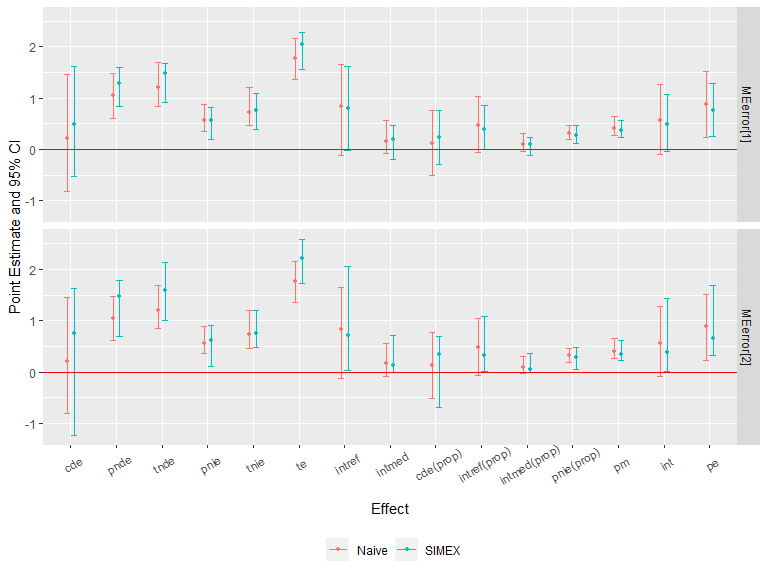
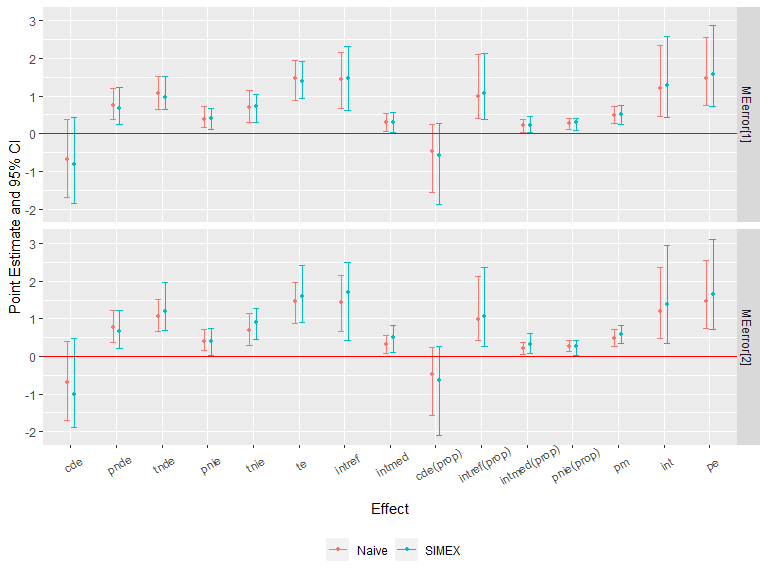
pkgdown

diff --git a/README.md b/README.md
@@ -9,8 +9,6 @@ Active](http://www.repostatus.org/badges/latest/active.svg)](http://www.repostat
 status](https://travis-ci.com/BS1125/CMAverse.svg?branch=master)](https://travis-ci.com/BS1125/CMAverse)
 [![R build
 status](https://github.com/BS1125/CMAverse/workflows/R-CMD-check/badge.svg)](https://github.com/BS1125/CMAverse/actions)
-[![Codecov test
-coverage](https://codecov.io/gh/BS1125/CMAverse/branch/master/graph/badge.svg)](https://codecov.io/gh/BS1125/CMAverse?branch=master)
 
 About the Package
 -----------------
@@ -404,27 +402,27 @@ Summarizing and plotting the results:
     ##     data = getCall(x$regsumm$yreg)$data, weights = getCall(x$regsumm$yreg)$weights)
     ## 
     ## Deviance Residuals: 
-    ##      Min        1Q    Median        3Q       Max  
-    ## -2.40326  -0.72140  -0.00023   0.57945   2.16324  
+    ##     Min       1Q   Median       3Q      Max  
+    ## -2.1479  -0.6226   0.0437   0.6214   2.1129  
     ## 
     ## Coefficients:
     ##             Estimate Std. Error t value Pr(>|t|)    
-    ## (Intercept)   0.7551     0.3521   2.145  0.03462 *  
-    ## Atreat        0.2085     0.5810   0.359  0.72058    
-    ## M1            0.5274     0.3033   1.739  0.08544 .  
-    ## M2            0.5407     0.1140   4.745 7.61e-06 ***
-    ## C1           -0.3910     0.1224  -3.194  0.00192 ** 
-    ## C2C2_1        2.0925     0.2825   7.408 6.03e-11 ***
-    ## Atreat:M1     0.7636     0.4232   1.804  0.07444 .  
-    ## Atreat:M2     0.1610     0.1259   1.279  0.20428    
+    ## (Intercept)   0.7654     0.3935   1.945  0.05478 .  
+    ## Atreat       -0.6839     0.5632  -1.214  0.22778    
+    ## M1            0.3424     0.3132   1.093  0.27720    
+    ## M2            0.5311     0.1163   4.568 1.53e-05 ***
+    ## C1           -0.2683     0.1261  -2.128  0.03602 *  
+    ## C2C2_1        1.9933     0.2855   6.981 4.45e-10 ***
+    ## Atreat:M1     0.7611     0.4307   1.767  0.08056 .  
+    ## Atreat:M2     0.3335     0.1200   2.778  0.00662 ** 
     ## ---
     ## Signif. codes:  0 '***' 0.001 '**' 0.01 '*' 0.05 '.' 0.1 ' ' 1
     ## 
-    ## (Dispersion parameter for gaussian family taken to be 0.8766664)
+    ## (Dispersion parameter for gaussian family taken to be 0.888859)
     ## 
-    ##     Null deviance: 493.158  on 99  degrees of freedom
-    ## Residual deviance:  80.653  on 92  degrees of freedom
-    ## AIC: 280.29
+    ##     Null deviance: 456.104  on 99  degrees of freedom
+    ## Residual deviance:  81.775  on 92  degrees of freedom
+    ## AIC: 281.67
     ## 
     ## Number of Fisher Scoring iterations: 2
     ## 
@@ -436,22 +434,22 @@ Summarizing and plotting the results:
     ## 
     ## Deviance Residuals: 
     ##     Min       1Q   Median       3Q      Max  
-    ## -1.8886  -0.8056  -0.4000   0.8544   2.2799  
+    ## -1.8272  -0.8024  -0.3942   0.8843   2.1428  
     ## 
     ## Coefficients:
     ##             Estimate Std. Error z value Pr(>|z|)    
-    ## (Intercept)   0.4647     0.4742   0.980   0.3272    
-    ## Atreat        0.2762     0.4831   0.572   0.5675    
-    ## C1           -1.2857     0.2909  -4.420 9.87e-06 ***
-    ## C2C2_1        0.8843     0.5019   1.762   0.0781 .  
+    ## (Intercept)   0.5153     0.5065   1.017    0.309    
+    ## Atreat        0.3399     0.4894   0.695    0.487    
+    ## C1           -1.3209     0.3064  -4.312 1.62e-05 ***
+    ## C2C2_1        0.3652     0.4846   0.754    0.451    
     ## ---
     ## Signif. codes:  0 '***' 0.001 '**' 0.01 '*' 0.05 '.' 0.1 ' ' 1
     ## 
     ## (Dispersion parameter for binomial family taken to be 1)
     ## 
-    ##     Null deviance: 138.27  on 99  degrees of freedom
-    ## Residual deviance: 108.42  on 96  degrees of freedom
-    ## AIC: 116.42
+    ##     Null deviance: 136.66  on 99  degrees of freedom
+    ## Residual deviance: 106.90  on 96  degrees of freedom
+    ## AIC: 114.9
     ## 
     ## Number of Fisher Scoring iterations: 4
     ## 
@@ -461,24 +459,24 @@ Summarizing and plotting the results:
     ##     weights = getCall(x$regsumm$mreg[[2L]])$weights)
     ## 
     ## Deviance Residuals: 
-    ##      Min        1Q    Median        3Q       Max  
-    ## -2.43403  -0.68099  -0.04434   0.76494   1.97911  
+    ##     Min       1Q   Median       3Q      Max  
+    ## -2.7913  -0.7986   0.1149   0.6585   1.9711  
     ## 
     ## Coefficients:
     ##             Estimate Std. Error t value Pr(>|t|)    
-    ## (Intercept)   1.6218     0.2503   6.479 4.08e-09 ***
-    ## Atreat        1.0407     0.2081   5.002 2.60e-06 ***
-    ## M1           -1.0921     0.2342  -4.662 1.02e-05 ***
-    ## C1            0.5369     0.1174   4.575 1.44e-05 ***
-    ## C2C2_1        2.0989     0.2111   9.941  < 2e-16 ***
+    ## (Intercept)   1.8620     0.2628   7.084 2.42e-10 ***
+    ## Atreat        0.7581     0.2201   3.445 0.000852 ***
+    ## M1           -0.8912     0.2415  -3.690 0.000374 ***
+    ## C1            0.5363     0.1251   4.288 4.34e-05 ***
+    ## C2C2_1        2.1921     0.2105  10.414  < 2e-16 ***
     ## ---
     ## Signif. codes:  0 '***' 0.001 '**' 0.01 '*' 0.05 '.' 0.1 ' ' 1
     ## 
-    ## (Dispersion parameter for gaussian family taken to be 1.009011)
+    ## (Dispersion parameter for gaussian family taken to be 1.055059)
     ## 
-    ##     Null deviance: 297.239  on 99  degrees of freedom
-    ## Residual deviance:  95.856  on 95  degrees of freedom
-    ## AIC: 291.56
+    ##     Null deviance: 291.98  on 99  degrees of freedom
+    ## Residual deviance: 100.23  on 95  degrees of freedom
+    ## AIC: 296.02
     ## 
     ## Number of Fisher Scoring iterations: 2
     ## 
@@ -488,21 +486,21 @@ Summarizing and plotting the results:
     ##  bootstrap standard errors, percentile confidence intervals and p-values 
     ##  
     ##              Estimate Std.error  95% CIL 95% CIU  P.val    
-    ## cde           0.20847   0.67110 -0.81428   1.450    0.7    
-    ## pnde          1.04534   0.28139  0.60505   1.472 <2e-16 ***
-    ## tnde          1.20701   0.27595  0.84519   1.690 <2e-16 ***
-    ## pnie          0.56334   0.15605  0.35407   0.878 <2e-16 ***
-    ## tnie          0.72502   0.22528  0.46824   1.204 <2e-16 ***
-    ## te            1.77036   0.27203  1.36197   2.153 <2e-16 ***
-    ## intref        0.83687   0.56739 -0.12084   1.655    0.1 .  
-    ## intmed        0.16167   0.18042 -0.07757   0.556    0.1 .  
-    ## cde(prop)     0.11775   0.38463 -0.51699   0.766    0.7    
-    ## intref(prop)  0.47272   0.32113 -0.06683   1.040    0.1 .  
-    ## intmed(prop)  0.09132   0.09752 -0.03780   0.302    0.1 .  
-    ## pnie(prop)    0.31821   0.08482  0.18541   0.461 <2e-16 ***
-    ## pm            0.40953   0.11737  0.27201   0.645 <2e-16 ***
-    ## int           0.56404   0.40801 -0.09191   1.270    0.1 .  
-    ## pe            0.88225   0.38463  0.23372   1.517 <2e-16 ***
+    ## cde          -0.68389   0.58266 -1.69350   0.389    0.2    
+    ## pnde          0.76252   0.27788  0.38212   1.210 <2e-16 ***
+    ## tnde          1.07100   0.25438  0.65684   1.525 <2e-16 ***
+    ## pnie          0.38694   0.17166  0.16967   0.719 <2e-16 ***
+    ## tnie          0.69542   0.24125  0.29645   1.139 <2e-16 ***
+    ## te            1.45794   0.31937  0.87301   1.959 <2e-16 ***
+    ## intref        1.44642   0.44322  0.66993   2.151 <2e-16 ***
+    ## intmed        0.30848   0.15045  0.06641   0.550 <2e-16 ***
+    ## cde(prop)    -0.46908   0.50524 -1.55909   0.245    0.2    
+    ## intref(prop)  0.99210   0.47194  0.41479   2.116 <2e-16 ***
+    ## intmed(prop)  0.21158   0.10208  0.04734   0.370 <2e-16 ***
+    ## pnie(prop)    0.26540   0.08849  0.12693   0.416 <2e-16 ***
+    ## pm            0.47699   0.13955  0.26043   0.713 <2e-16 ***
+    ## int           1.20368   0.52538  0.46917   2.354 <2e-16 ***
+    ## pe            1.46908   0.50524  0.75538   2.559 <2e-16 ***
     ## ---
     ## Signif. codes:  0 '***' 0.001 '**' 0.01 '*' 0.05 '.' 0.1 ' ' 1
     ## 
@@ -533,13 +531,13 @@ analysis for unmeasured confounding:
     ## Sensitivity Analysis For Unmeasured Confounding 
     ## 
     ## Evalues on the ratio scale: 
-    ##         estRR   lowerRR  upperRR Evalue.estRR Evalue.lowerRR Evalue.upperRR
-    ## cde  1.088713 0.6374836 1.859337     1.399492       1.000000             NA
-    ## pnde 1.531443 1.2235924 1.916746     2.433592       1.746647             NA
-    ## tnde 1.635794 1.3126569 2.038478     2.655612       1.953290             NA
-    ## pnie 1.258208 1.1109676 1.424962     1.828189       1.462082             NA
-    ## tnie 1.343941 1.1229245 1.608459     2.023821       1.494455             NA
-    ## te   2.058169 1.6567618 2.556830     3.533936       2.699881             NA
+    ##          estRR   lowerRR  upperRR Evalue.estRR Evalue.lowerRR Evalue.upperRR
+    ## cde  0.7483044 0.4615625 1.213182     2.006794             NA              1
+    ## pnde 1.3816525 1.0972832 1.739718     2.107815       1.424005             NA
+    ## tnde 1.5746957 1.2752014 1.944529     2.525995       1.867601             NA
+    ## pnie 1.1782709 1.0219259 1.358535     1.636585       1.171614             NA
+    ## tnie 1.3428978 1.0993962 1.640332     2.021482       1.429965             NA
+    ## te   1.8554182 1.4236964 2.418055     3.115243       2.200366             NA
 
 Assume that the continuous pre-exposure confounder was measured with
 error. Sensitivity analysis for measurement error using regression
@@ -561,22 +559,22 @@ Summarizing and plotting the results:
     ## Measurement error 1: 
     ## 0.1
     ## Measurement error correction for measurement error 1: 
-    ##               Estimate Std.error   95% CIL 95% CIU  P.val    
-    ## cde           0.205194  0.480840 -0.543441   0.991    0.5    
-    ## pnde          1.035260  0.199725  0.733601   1.330 <2e-16 ***
-    ## tnde          1.226583  0.232790  0.841676   1.599 <2e-16 ***
-    ## pnie          0.563154  0.154671  0.272329   0.792 <2e-16 ***
-    ## tnie          0.754477  0.248639  0.349678   1.216 <2e-16 ***
-    ## te            1.789737  0.309951  1.210990   2.242 <2e-16 ***
-    ## intref        0.830067  0.376092  0.202022   1.312 <2e-16 ***
-    ## intmed        0.191323  0.151560 -0.014945   0.468    0.1 .  
-    ## cde(prop)     0.114650  0.287690 -0.340201   0.597    0.5    
-    ## intref(prop)  0.463792  0.221562  0.121826   0.869 <2e-16 ***
-    ## intmed(prop)  0.106900  0.076537 -0.007515   0.245    0.1 .  
-    ## pnie(prop)    0.314657  0.069050  0.223366   0.449 <2e-16 ***
-    ## pm            0.421557  0.097130  0.257573   0.589 <2e-16 ***
-    ## int           0.570693  0.282061  0.121978   1.034 <2e-16 ***
-    ## pe            0.885350  0.287690  0.403499   1.340 <2e-16 ***
+    ##              Estimate Std.error  95% CIL 95% CIU  P.val    
+    ## cde          -0.68650   0.54741 -1.73302  -0.037 <2e-16 ***
+    ## pnde          0.72388   0.25439  0.14360   0.994 <2e-16 ***
+    ## tnde          0.98236   0.29098  0.44628   1.438 <2e-16 ***
+    ## pnie          0.40405   0.12422  0.14357   0.581 <2e-16 ***
+    ## tnie          0.66253   0.17716  0.33656   0.986 <2e-16 ***
+    ## te            1.38640   0.27244  0.83456   1.658 <2e-16 ***
+    ## intref        1.41038   0.51631  0.83305   2.480 <2e-16 ***
+    ## intmed        0.25848   0.15582  0.07115   0.610 <2e-16 ***
+    ## cde(prop)    -0.49517   0.51097 -1.65403  -0.029 <2e-16 ***
+    ## intref(prop)  1.01729   0.42453  0.59085   1.959 <2e-16 ***
+    ## intmed(prop)  0.18644   0.10151  0.05322   0.407 <2e-16 ***
+    ## pnie(prop)    0.29144   0.11384  0.09749   0.519 <2e-16 ***
+    ## pm            0.47787   0.15306  0.29259   0.845 <2e-16 ***
+    ## int           1.20373   0.48681  0.68541   2.244 <2e-16 ***
+    ## pe            1.49517   0.51097  1.02915   2.654 <2e-16 ***
     ## ---
     ## Signif. codes:  0 '***' 0.001 '**' 0.01 '*' 0.05 '.' 0.1 ' ' 1
     ## ----------------------------------------------------------------
@@ -585,21 +583,21 @@ Summarizing and plotting the results:
     ## 0.2
     ## Measurement error correction for measurement error 2: 
     ##              Estimate Std.error  95% CIL 95% CIU  P.val    
-    ## cde           0.19468   0.50651 -0.49799   1.171    0.4    
-    ## pnde          1.05540   0.22573  0.71140   1.483 <2e-16 ***
-    ## tnde          1.22977   0.21530  0.90479   1.659 <2e-16 ***
-    ## pnie          0.57476   0.15495  0.34017   0.835 <2e-16 ***
-    ## tnie          0.74914   0.22664  0.44063   1.183 <2e-16 ***
-    ## te            1.80453   0.24828  1.43627   2.283 <2e-16 ***
-    ## intref        0.86071   0.41853  0.09799   1.497 <2e-16 ***
-    ## intmed        0.17438   0.17270 -0.06124   0.482    0.2    
-    ## cde(prop)     0.10789   0.27788 -0.26532   0.629    0.4    
-    ## intref(prop)  0.47697   0.22368  0.05682   0.816 <2e-16 ***
-    ## intmed(prop)  0.09663   0.08956 -0.03229   0.254    0.2    
-    ## pnie(prop)    0.31851   0.07199  0.19284   0.416 <2e-16 ***
-    ## pm            0.41514   0.10205  0.24503   0.621 <2e-16 ***
-    ## int           0.57361   0.29224  0.04463   1.010 <2e-16 ***
-    ## pe            0.89211   0.27788  0.37071   1.265 <2e-16 ***
+    ## cde          -0.69491   0.59313 -1.76536   0.058    0.1 .  
+    ## pnde          0.69354   0.21587  0.33777   1.045 <2e-16 ***
+    ## tnde          0.96478   0.23259  0.57194   1.415 <2e-16 ***
+    ## pnie          0.41016   0.20007  0.08130   0.833 <2e-16 ***
+    ## tnie          0.68140   0.22729  0.37484   1.219 <2e-16 ***
+    ## te            1.37493   0.25683  1.00180   1.850 <2e-16 ***
+    ## intref        1.38844   0.52624  0.60686   2.220 <2e-16 ***
+    ## intmed        0.27124   0.14740  0.13483   0.655 <2e-16 ***
+    ## cde(prop)    -0.50541   0.50628 -1.43484   0.036    0.1 .  
+    ## intref(prop)  1.00983   0.50096  0.44340   1.933 <2e-16 ***
+    ## intmed(prop)  0.19727   0.10052  0.09347   0.438 <2e-16 ***
+    ## pnie(prop)    0.29831   0.12904  0.07759   0.549 <2e-16 ***
+    ## pm            0.49558   0.12696  0.31037   0.763 <2e-16 ***
+    ## int           1.20710   0.57436  0.54171   2.222 <2e-16 ***
+    ## pe            1.50541   0.50628  0.96363   2.435 <2e-16 ***
     ## ---
     ## Signif. codes:  0 '***' 0.001 '**' 0.01 '*' 0.05 '.' 0.1 ' ' 1
     ## ----------------------------------------------------------------
@@ -608,21 +606,21 @@ Summarizing and plotting the results:
     ## 0.3
     ## Measurement error correction for measurement error 3: 
     ##              Estimate Std.error  95% CIL 95% CIU  P.val    
-    ## cde           0.17445   0.52461 -0.52061   1.362    0.8    
-    ## pnde          1.00592   0.19550  0.75252   1.339 <2e-16 ***
-    ## tnde          1.18763   0.21152  0.90638   1.562 <2e-16 ***
-    ## pnie          0.59265   0.15213  0.35169   0.850 <2e-16 ***
-    ## tnie          0.77437   0.15181  0.55044   1.066 <2e-16 ***
-    ## te            1.78029   0.19271  1.48874   2.125 <2e-16 ***
-    ## intref        0.83146   0.43045 -0.06989   1.379    0.1 .  
-    ## intmed        0.18172   0.16102 -0.17009   0.395    0.3    
-    ## cde(prop)     0.09799   0.27993 -0.31067   0.664    0.8    
-    ## intref(prop)  0.46704   0.24630 -0.02830   0.823    0.1 .  
-    ## intmed(prop)  0.10207   0.08676 -0.08862   0.210    0.3    
-    ## pnie(prop)    0.33290   0.08260  0.20273   0.464 <2e-16 ***
-    ## pm            0.43497   0.07836  0.30620   0.567 <2e-16 ***
-    ## int           0.56911   0.32267 -0.10755   1.014    0.1 .  
-    ## pe            0.90201   0.27993  0.33595   1.311 <2e-16 ***
+    ## cde          -0.71125   0.84694 -2.12799   0.902    0.3    
+    ## pnde          0.67833   0.22439  0.13206   0.953 <2e-16 ***
+    ## tnde          0.99030   0.16747  0.61722   1.205 <2e-16 ***
+    ## pnie          0.41809   0.17054  0.21281   0.756 <2e-16 ***
+    ## tnie          0.73006   0.27413  0.37664   1.244 <2e-16 ***
+    ## te            1.40840   0.21133  0.99587   1.673 <2e-16 ***
+    ## intref        1.38958   0.69647 -0.03903   2.414    0.1 .  
+    ## intmed        0.31197   0.23288 -0.09216   0.782    0.1 .  
+    ## cde(prop)    -0.50500   0.61456 -1.47226   0.595    0.3    
+    ## intref(prop)  0.98664   0.53809 -0.02540   1.693    0.1 .  
+    ## intmed(prop)  0.22151   0.15449 -0.05958   0.522    0.1 .  
+    ## pnie(prop)    0.29686   0.09952  0.16358   0.492 <2e-16 ***
+    ## pm            0.51836   0.16274  0.32752   0.893 <2e-16 ***
+    ## int           1.20814   0.65749 -0.04409   2.133    0.1 .  
+    ## pe            1.50500   0.61456  0.40504   2.472 <2e-16 ***
     ## ---
     ## Signif. codes:  0 '***' 0.001 '**' 0.01 '*' 0.05 '.' 0.1 ' ' 1
     ## ----------------------------------------------------------------
@@ -657,21 +655,21 @@ Summarizing and plotting the results:
     ## 
     ## Measurement error correction for measurement error 1: 
     ##              Estimate Std.error  95% CIL 95% CIU  P.val    
-    ## cde           0.49090   0.66653 -0.53271   1.620    0.7    
-    ## pnde          1.29190   0.22606  0.84103   1.601 <2e-16 ***
-    ## tnde          1.48630   0.24214  0.90556   1.677 <2e-16 ***
-    ## pnie          0.56382   0.20090  0.19747   0.811 <2e-16 ***
-    ## tnie          0.75822   0.20190  0.38812   1.096 <2e-16 ***
-    ## te            2.05012   0.21923  1.55602   2.285 <2e-16 ***
-    ## intref        0.80100   0.52556 -0.02097   1.621    0.1 .  
-    ## intmed        0.19440   0.21698 -0.19848   0.472    0.4    
-    ## cde(prop)     0.23945   0.33537 -0.28719   0.751    0.7    
-    ## intref(prop)  0.39071   0.28658 -0.01042   0.857    0.1 .  
-    ## intmed(prop)  0.09482   0.11744 -0.11853   0.238    0.4    
-    ## pnie(prop)    0.27502   0.10383  0.10654   0.458 <2e-16 ***
-    ## pm            0.36984   0.09474  0.22822   0.561 <2e-16 ***
-    ## int           0.48553   0.38217 -0.04301   1.060    0.1 .  
-    ## pe            0.76055   0.33537  0.24864   1.287 <2e-16 ***
+    ## cde          -0.81531   0.64093 -1.84012   0.432    0.2    
+    ## pnde          0.66570   0.26424  0.24517   1.230 <2e-16 ***
+    ## tnde          0.97496   0.25243  0.64538   1.515 <2e-16 ***
+    ## pnie          0.41967   0.16374  0.11427   0.661 <2e-16 ***
+    ## tnie          0.72893   0.19761  0.29936   1.043 <2e-16 ***
+    ## te            1.39463   0.27874  0.94465   1.932 <2e-16 ***
+    ## intref        1.48101   0.52137  0.62653   2.322 <2e-16 ***
+    ## intmed        0.30926   0.14653  0.03230   0.569    0.1 .  
+    ## cde(prop)    -0.58461   0.55520 -1.88545   0.273    0.2    
+    ## intref(prop)  1.06194   0.48026  0.37577   2.131 <2e-16 ***
+    ## intmed(prop)  0.22175   0.12230  0.02781   0.465    0.1 .  
+    ## pnie(prop)    0.30092   0.10005  0.09075   0.397 <2e-16 ***
+    ## pm            0.52267   0.14603  0.24744   0.763 <2e-16 ***
+    ## int           1.28369   0.56718  0.43137   2.594 <2e-16 ***
+    ## pe            1.58461   0.55520  0.72652   2.885 <2e-16 ***
     ## ---
     ## Signif. codes:  0 '***' 0.001 '**' 0.01 '*' 0.05 '.' 0.1 ' ' 1
     ## ----------------------------------------------------------------
@@ -682,22 +680,22 @@ Summarizing and plotting the results:
     ## [2,]  0.1  0.9
     ## 
     ## Measurement error correction for measurement error 2: 
-    ##               Estimate Std.error   95% CIL 95% CIU  P.val    
-    ## cde           0.750288  0.862815 -1.237708   1.625    0.5    
-    ## pnde          1.466978  0.341426  0.684854   1.791 <2e-16 ***
-    ## tnde          1.588675  0.327021  1.005461   2.127 <2e-16 ***
-    ## pnie          0.621023  0.230810  0.100491   0.910 <2e-16 ***
-    ## tnie          0.742720  0.235060  0.478760   1.207 <2e-16 ***
-    ## te            2.209698  0.251070  1.726055   2.578 <2e-16 ***
-    ## intref        0.716690  0.705724  0.039405   2.047    0.1 .  
-    ## intmed        0.121697  0.242552 -0.004874   0.716    0.1 .  
-    ## cde(prop)     0.339543  0.411494 -0.689288   0.686    0.5    
-    ## intref(prop)  0.324338  0.353888  0.016190   1.078    0.1 .  
-    ## intmed(prop)  0.055074  0.118823 -0.001867   0.362    0.1 .  
-    ## pnie(prop)    0.281044  0.113676  0.047939   0.475 <2e-16 ***
-    ## pm            0.336118  0.123609  0.227552   0.617 <2e-16 ***
-    ## int           0.379412  0.459935  0.014987   1.437    0.1 .  
-    ## pe            0.660457  0.411494  0.313802   1.689 <2e-16 ***
+    ##              Estimate Std.error  95% CIL 95% CIU  P.val    
+    ## cde          -1.01782   0.75601 -1.89017   0.485    0.3    
+    ## pnde          0.67446   0.29917  0.20953   1.209 <2e-16 ***
+    ## tnde          1.18583   0.36500  0.68627   1.972 <2e-16 ***
+    ## pnie          0.39960   0.21504  0.01187   0.749    0.1 .  
+    ## tnie          0.91096   0.25034  0.46254   1.271 <2e-16 ***
+    ## te            1.58543   0.40516  0.89458   2.411 <2e-16 ***
+    ## intref        1.69229   0.62793  0.41233   2.486 <2e-16 ***
+    ## intmed        0.51136   0.22947  0.11680   0.825 <2e-16 ***
+    ## cde(prop)    -0.64199   0.67077 -2.10215   0.274    0.3    
+    ## intref(prop)  1.06740   0.60823  0.26935   2.353 <2e-16 ***
+    ## intmed(prop)  0.32254   0.16266  0.07201   0.620 <2e-16 ***
+    ## pnie(prop)    0.25205   0.12377  0.01329   0.421    0.1 .  
+    ## pm            0.57459   0.13489  0.34179   0.818 <2e-16 ***
+    ## int           1.38994   0.73631  0.34700   2.956 <2e-16 ***
+    ## pe            1.64199   0.67077  0.72594   3.102 <2e-16 ***
     ## ---
     ## Signif. codes:  0 '***' 0.001 '**' 0.01 '*' 0.05 '.' 0.1 ' ' 1
     ## ----------------------------------------------------------------
